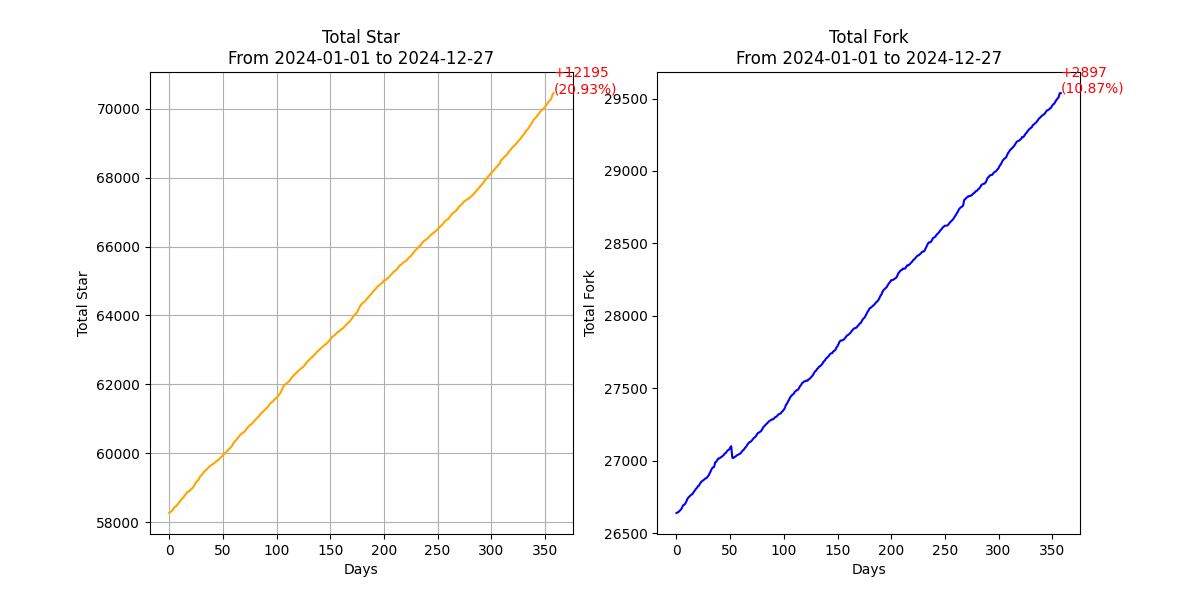
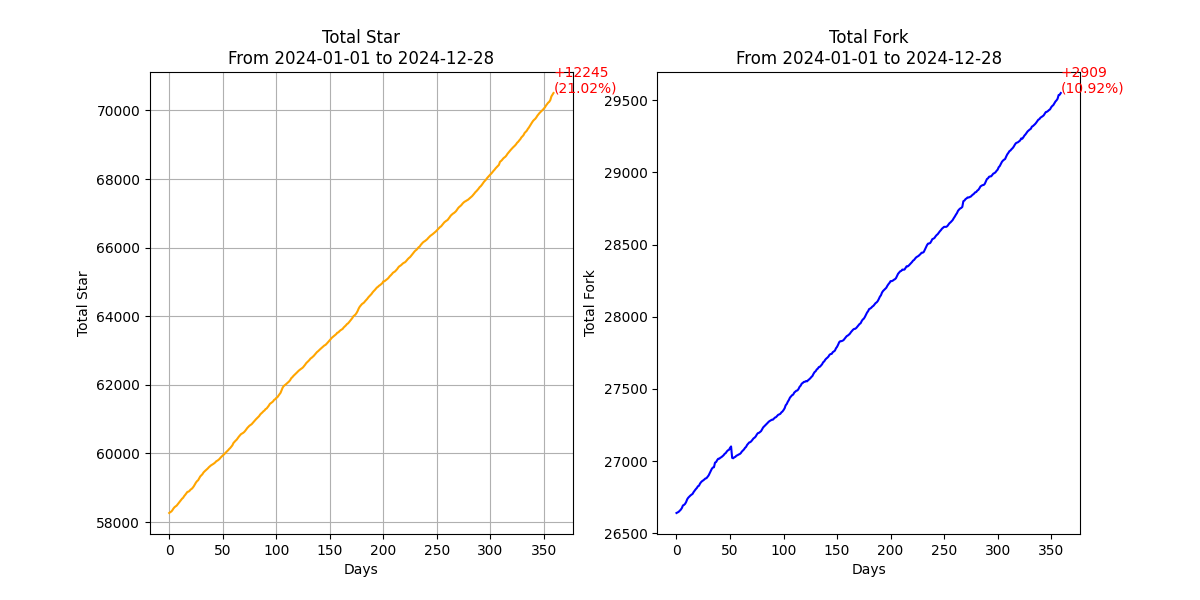
Update Espressif Systems Github Star Rank - 2024-12-28

diff --git a/rank_history/esp_rank_2024-12-27.md b/rank_history/esp_rank_2024-12-27.md
@@ -1,6 +1,6 @@
-# Espressif Systems Github Star Rank 2024-12-28
+# Espressif Systems Github Star Rank 2024-12-27
 
-## Total Star 🌟: 70550, Total Fork 🌳: 29561
+## Total Star 🌟: 70508, Total Fork 🌳: 29550
 
 [![Update Espressif Systems Github Star Rank](https://github.com/leeebo/espressif_star_counter/actions/workflows/update_rank.yml/badge.svg)](https://github.com/leeebo/espressif_star_counter/actions/workflows/update_rank.yml)
 
@@ -8,60 +8,60 @@
 
 | Repository | Stars | Forks | Description |
 |------------|-------|-------|-------------|
-| [esp-idf](https://github.com/espressif/esp-idf) | 14090 | 7370 | Espressif IoT Development Framework. Official development framework for Espressif SoCs. |
-| [arduino-esp32](https://github.com/espressif/arduino-esp32) | 13941 | 7474 | Arduino core for the ESP32 |
-| [esptool](https://github.com/espressif/esptool) | 5658 | 1392 | Espressif SoC serial bootloader utility |
-| [ESP8266_RTOS_SDK](https://github.com/espressif/ESP8266_RTOS_SDK) | 3369 | 1567 | Latest ESP8266 SDK based on FreeRTOS, esp-idf style. |
-| [esp-iot-solution](https://github.com/espressif/esp-iot-solution) | 2023 | 798 | Espressif IoT Library. IoT Device Drivers, Documentations and Solutions. |
-| [esp32-camera](https://github.com/espressif/esp32-camera) | 1986 | 650 | None |
-| [esp-who](https://github.com/espressif/esp-who) | 1734 | 468 | Face detection and recognition framework |
-| [esp-adf](https://github.com/espressif/esp-adf) | 1592 | 699 | Espressif Audio Development Framework |
-| [vscode-esp-idf-extension](https://github.com/espressif/vscode-esp-idf-extension) | 1103 | 312 | Visual Studio Code extension for ESP-IDF projects |
+| [esp-idf](https://github.com/espressif/esp-idf) | 14083 | 7369 | Espressif IoT Development Framework. Official development framework for Espressif SoCs. |
+| [arduino-esp32](https://github.com/espressif/arduino-esp32) | 13932 | 7470 | Arduino core for the ESP32 |
+| [esptool](https://github.com/espressif/esptool) | 5656 | 1392 | Espressif SoC serial bootloader utility |
+| [ESP8266_RTOS_SDK](https://github.com/espressif/ESP8266_RTOS_SDK) | 3367 | 1567 | Latest ESP8266 SDK based on FreeRTOS, esp-idf style. |
+| [esp-iot-solution](https://github.com/espressif/esp-iot-solution) | 2022 | 798 | Espressif IoT Library. IoT Device Drivers, Documentations and Solutions. |
+| [esp32-camera](https://github.com/espressif/esp32-camera) | 1984 | 650 | None |
+| [esp-who](https://github.com/espressif/esp-who) | 1733 | 468 | Face detection and recognition framework |
+| [esp-adf](https://github.com/espressif/esp-adf) | 1591 | 699 | Espressif Audio Development Framework |
+| [vscode-esp-idf-extension](https://github.com/espressif/vscode-esp-idf-extension) | 1102 | 311 | Visual Studio Code extension for ESP-IDF projects |
 | [ESP8266_NONOS_SDK](https://github.com/espressif/ESP8266_NONOS_SDK) | 934 | 536 | ESP8266 nonOS SDK |
-| [esp-at](https://github.com/espressif/esp-at) | 932 | 848 | AT application for ESP32/ESP32-C2/ESP32-C3/ESP32-C6/ESP8266 |
+| [esp-at](https://github.com/espressif/esp-at) | 932 | 846 | AT application for ESP32/ESP32-C2/ESP32-C3/ESP32-C6/ESP8266 |
 | [esp-drone](https://github.com/espressif/esp-drone) | 889 | 247 | Mini Drone/Quadcopter Firmware for ESP32 and ESP32-S Series SoCs. |
-| [esp-box](https://github.com/espressif/esp-box) | 844 | 196 | The ESP-BOX is a new generation AIoT development platform released by Espressif Systems. |
-| [kicad-libraries](https://github.com/espressif/kicad-libraries) | 797 | 111 | KiCad libraries for Espressif SoCs, modules, and DevKits. |
+| [esp-box](https://github.com/espressif/esp-box) | 843 | 196 | The ESP-BOX is a new generation AIoT development platform released by Espressif Systems. |
+| [kicad-libraries](https://github.com/espressif/kicad-libraries) | 796 | 111 | KiCad libraries for Espressif SoCs, modules, and DevKits. |
 | [esp-mdf](https://github.com/espressif/esp-mdf) | 784 | 253 | Espressif Mesh Development Framework, limited maintain, recommend to use https://github.com/espressif/esp-mesh-lite |
-| [ESP8266_MP3_DECODER](https://github.com/espressif/ESP8266_MP3_DECODER) | 747 | 190 | A demo that should be run with ESP8266 Non-OS SDK |
+| [ESP8266_MP3_DECODER](https://github.com/espressif/ESP8266_MP3_DECODER) | 746 | 190 | A demo that should be run with ESP8266 Non-OS SDK |
 | [esp-csi](https://github.com/espressif/esp-csi) | 735 | 110 | Applications based on Wi-Fi CSI (Channel state information), such as indoor positioning, human detection |
 | [esp-matter](https://github.com/espressif/esp-matter) | 727 | 166 | Espressif's SDK for Matter |
-| [esp-hosted](https://github.com/espressif/esp-hosted) | 726 | 170 | Hosted Solution (Linux/MCU) with ESP32 (Wi-Fi + BT + BLE) |
+| [esp-hosted](https://github.com/espressif/esp-hosted) | 725 | 170 | Hosted Solution (Linux/MCU) with ESP32 (Wi-Fi + BT + BLE) |
 | [esp-apple-homekit-adk](https://github.com/espressif/esp-apple-homekit-adk) | 627 | 64 | This is a port for Apple's Open Source HomeKit ADK |
 | [esp-mqtt](https://github.com/espressif/esp-mqtt) | 619 | 258 | ESP32 mqtt component |
 | [esp-sr](https://github.com/espressif/esp-sr) | 611 | 108 | Speech recognition |
 | [esp-skainet](https://github.com/espressif/esp-skainet) | 604 | 136 | Espressif intelligent voice assistant |
-| [esp-dl](https://github.com/espressif/esp-dl) | 595 | 126 | Espressif deep-learning library for AIoT applications |
-| [esp-homekit-sdk](https://github.com/espressif/esp-homekit-sdk) | 580 | 110 | None |
+| [esp-dl](https://github.com/espressif/esp-dl) | 594 | 126 | Espressif deep-learning library for AIoT applications |
+| [esp-homekit-sdk](https://github.com/espressif/esp-homekit-sdk) | 579 | 109 | None |
 | [esp-now](https://github.com/espressif/esp-now) | 561 | 97 | A connectionless Wi-Fi communication protocol |
 | [esp32-nesemu](https://github.com/espressif/esp32-nesemu) | 552 | 173 | Proof-of-concept NES emulator for the ESP32 |
-| [esp-dsp](https://github.com/espressif/esp-dsp) | 496 | 92 | DSP library for ESP-IDF |
-| [esp-rainmaker](https://github.com/espressif/esp-rainmaker) | 474 | 157 | ESP RainMaker Agent for firmware development |
+| [esp-dsp](https://github.com/espressif/esp-dsp) | 495 | 92 | DSP library for ESP-IDF |
+| [esp-rainmaker](https://github.com/espressif/esp-rainmaker) | 473 | 157 | ESP RainMaker Agent for firmware development |
 | [ESP8266_AT](https://github.com/espressif/ESP8266_AT) | 471 | 227 | This project is not maintained, please use https://github.com/espressif/esp-at. |
 | [rust-esp32-example](https://github.com/espressif/rust-esp32-example) | 451 | 36 | Example of Rust integration into an ESP-IDF project, for ESP32 series of chips |
 | [esp-tflite-micro](https://github.com/espressif/esp-tflite-micro) | 407 | 88 | TensorFlow Lite Micro for Espressif Chipsets |
-| [esp-serial-flasher](https://github.com/espressif/esp-serial-flasher) | 400 | 117 | Library for flashing Espressif SoCs from other MCUs. |
+| [esp-serial-flasher](https://github.com/espressif/esp-serial-flasher) | 399 | 117 | Library for flashing Espressif SoCs from other MCUs. |
 | [esp-dev-kits](https://github.com/espressif/esp-dev-kits) | 379 | 186 | Docs, Schematics, Factory Firmwares for ESP Development Kits |
 | [openocd-esp32](https://github.com/espressif/openocd-esp32) | 366 | 134 | OpenOCD branch with ESP32 JTAG support |
 | [esp-aliyun](https://github.com/espressif/esp-aliyun) | 341 | 151 | Aliyun Iotkit-embedded, support esp32 & esp8266. |
 | [esp-idf-template](https://github.com/espressif/esp-idf-template) | 336 | 201 | Template application for https://github.com/espressif/esp-idf |
 | [idf-eclipse-plugin](https://github.com/espressif/idf-eclipse-plugin) | 322 | 122 | Espressif-IDE (ESP-IDF Eclipse Plugin) for ESP-IDF CMake based projects 5.x and above |
 | [esp-usb-bridge](https://github.com/espressif/esp-usb-bridge) | 306 | 34 | USB to UART&JTAG bridge, implemented on ESP32-S2 or ESP32-S3 |
-| [esptool-js](https://github.com/espressif/esptool-js) | 303 | 111 | Javascript implementation of flasher tool for Espressif chips, running in web browser using WebSerial. |
+| [esptool-js](https://github.com/espressif/esptool-js) | 301 | 111 | Javascript implementation of flasher tool for Espressif chips, running in web browser using WebSerial. |
 | [esp-va-sdk](https://github.com/espressif/esp-va-sdk) | 296 | 83 | Espressif's Voice Assistant SDK: Alexa, Google Voice Assistant, Google DialogFlow |
 | [esp-aws-iot](https://github.com/espressif/esp-aws-iot) | 275 | 166 | AWS IoT SDK for ESP32 based chipsets |
 | [esp-bsp](https://github.com/espressif/esp-bsp) | 218 | 114 | Board support components for Espressif development boards |
 | [esp-idf-provisioning-android](https://github.com/espressif/esp-idf-provisioning-android) | 208 | 138 | Android Provisioning application for ESP-IDF Unified provisioning |
 | [esp-protocols](https://github.com/espressif/esp-protocols) | 204 | 137 | Collection of ESP-IDF components related to networking protocols |
 | [esp32-doom](https://github.com/espressif/esp32-doom) | 202 | 39 | A proof-of-concept port of PrBoom to the ESP32. Needs psram hardware. |
-| [esp-zigbee-sdk](https://github.com/espressif/esp-zigbee-sdk) | 190 | 35 | Espressif Zigbee SDK |
+| [esp-zigbee-sdk](https://github.com/espressif/esp-zigbee-sdk) | 190 | 34 | Espressif Zigbee SDK |
 | [ESP31_RTOS_SDK](https://github.com/espressif/ESP31_RTOS_SDK) | 188 | 58 | ESP31B SDK based on FreeRTOS. For ESP32 please see http://github.com/espressif/esp-idf |
 | [esp-jumpstart](https://github.com/espressif/esp-jumpstart) | 180 | 58 | Jumpstart from concept to production |
 | [esp-azure](https://github.com/espressif/esp-azure) | 178 | 93 | SDK to connect ESP8266 and ESP32 to Microsoft Azure IoT services |
-| [esp-iot-bridge](https://github.com/espressif/esp-iot-bridge) | 174 | 54 | A smart bridge to make both ESP and the other MCU or smart device can access the Internet. |
+| [esp-iot-bridge](https://github.com/espressif/esp-iot-bridge) | 173 | 54 | A smart bridge to make both ESP and the other MCU or smart device can access the Internet. |
 | [esp32-wifi-lib](https://github.com/espressif/esp32-wifi-lib) | 167 | 72 | ESP32 WiFi stack precompiled libraries |
-| [idf-extra-components](https://github.com/espressif/idf-extra-components) | 164 | 93 | Additional components for ESP-IDF, maintained by Espressif |
 | [esp-gdbstub](https://github.com/espressif/esp-gdbstub) | 163 | 38 | None |
+| [idf-extra-components](https://github.com/espressif/idf-extra-components) | 162 | 93 | Additional components for ESP-IDF, maintained by Espressif |
 | [esp32-arduino-lib-builder](https://github.com/espressif/esp32-arduino-lib-builder) | 155 | 173 | None |
 | [esp-nn](https://github.com/espressif/esp-nn) | 149 | 24 | Optimised Neural Network functions for Espressif chipsets |
 | [esp-google-iot](https://github.com/espressif/esp-google-iot) | 143 | 44 | Google Cloud IoT SDK as an ESP-IDF Component |
@@ -70,7 +70,7 @@
 | [esp8266-rtos-sample-code](https://github.com/espressif/esp8266-rtos-sample-code) | 129 | 86 | None |
 | [esp-modbus](https://github.com/espressif/esp-modbus) | 123 | 55 | ESP-Modbus - the officially suppported library for Modbus protocol (serial RS485 + TCP over WiFi or Ethernet). |
 | [esp-thread-br](https://github.com/espressif/esp-thread-br) | 121 | 26 | Espressif Thread Border Router SDK |
-| [book-esp32c3-iot-projects](https://github.com/espressif/book-esp32c3-iot-projects) | 112 | 35 | 《ESP32-C3 物联网工程开发实战》配套代码 |
+| [book-esp32c3-iot-projects](https://github.com/espressif/book-esp32c3-iot-projects) | 111 | 35 | 《ESP32-C3 物联网工程开发实战》配套代码 |
 | [esp-insights](https://github.com/espressif/esp-insights) | 107 | 29 | ESP Insights: A remote diagnostics/observability framework for connected devices |
 | [esp-rainmaker-android](https://github.com/espressif/esp-rainmaker-android) | 105 | 61 | ESP RainMaker Android app sources |
 | [idf-installer](https://github.com/espressif/idf-installer) | 104 | 21 | ESP IDF Windows Installer |
@@ -118,7 +118,7 @@
 | [esp-idf-monitor](https://github.com/espressif/esp-idf-monitor) | 24 | 9 | None |
 | [esp-docs](https://github.com/espressif/esp-docs) | 22 | 15 | Python based wrapper for Sphinx, intended to simplify and extend Sphinx's functionality to better suit the documentation needs for Espressif's development frameworks |
 | [esp-h264-component](https://github.com/espressif/esp-h264-component) | 22 | 0 | H264 encoder/decoder of espressif |
-| [esp_secure_cert_mgr](https://github.com/espressif/esp_secure_cert_mgr) | 21 | 12 | Espressif Secure Certificate Manager Component |
+| [esp_secure_cert_mgr](https://github.com/espressif/esp_secure_cert_mgr) | 20 | 12 | Espressif Secure Certificate Manager Component |
 | [esp-hal-3rdparty](https://github.com/espressif/esp-hal-3rdparty) | 19 | 20 | None |
 | [idf-clion-plugin](https://github.com/espressif/idf-clion-plugin) | 19 | 5 | CLion plugin for ESP-IDF |
 | [esp-baidu-iot](https://github.com/espressif/esp-baidu-iot) | 18 | 10 | Baidu 天工物联网平台 support for ESP32 & ESP8266. |
@@ -197,7 +197,7 @@
 | [cz-plugin-espressif](https://github.com/espressif/cz-plugin-espressif) | 1 | 1 | Commitizen tools plugin with Espressif code style |
 | [docker-hub-issue-test](https://github.com/espressif/docker-hub-issue-test) | 1 | 1 | None |
 | [esp-bist](https://github.com/espressif/esp-bist) | 1 | 0 | Bist Library for Espressif Devices |
-| [esp-hosted-mcu](https://github.com/espressif/esp-hosted-mcu) | 1 | 1 | None |
+| [esp-hosted-mcu](https://github.com/espressif/esp-hosted-mcu) | 1 | 0 | None |
 | [esp-nvd-mirror](https://github.com/espressif/esp-nvd-mirror) | 1 | 0 | None |
 | [esp-prog-2](https://github.com/espressif/esp-prog-2) | 1 | 0 | None |
 | [esp-rainmaker-oauth2-integration](https://github.com/espressif/esp-rainmaker-oauth2-integration) | 1 | 0 | ESP RainMaker OAuth2 Integration |
